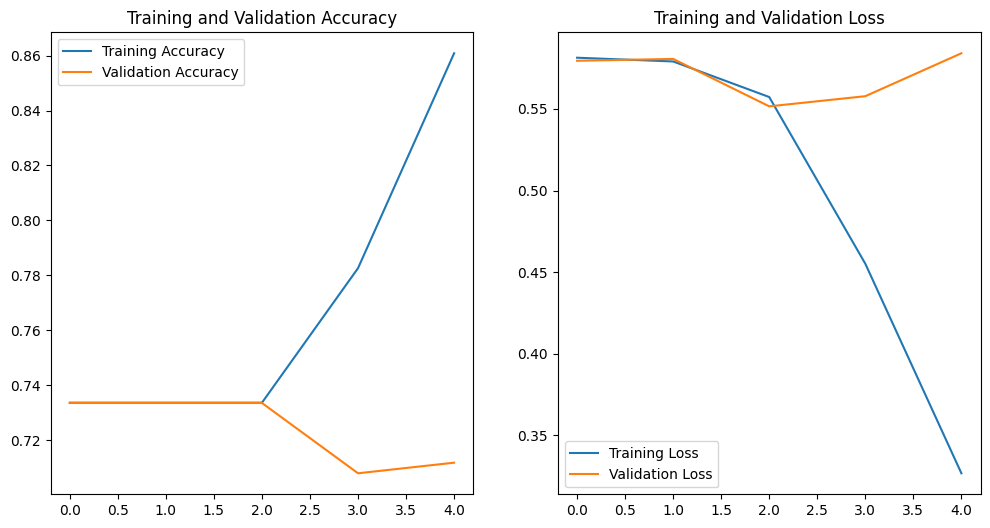
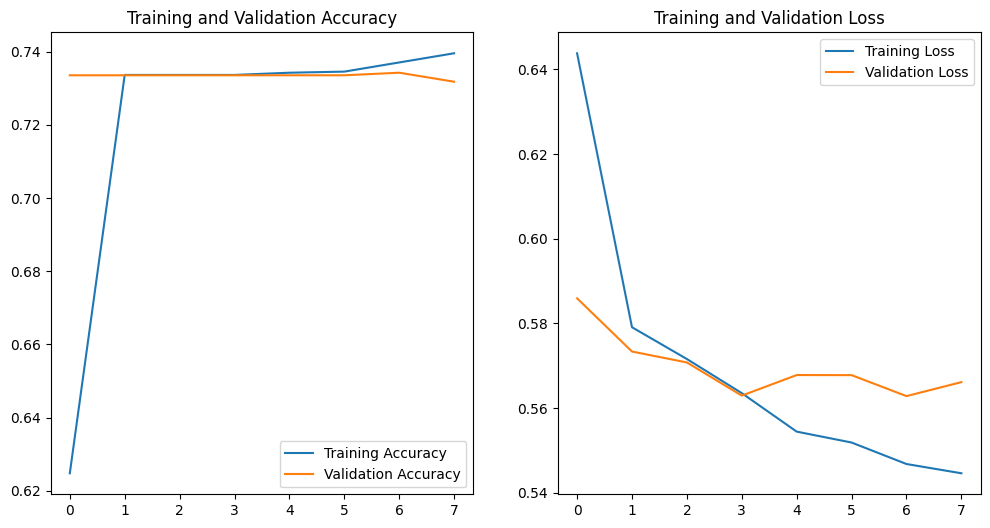
update rnn

diff --git a/README.md b/README.md
@@ -6,7 +6,8 @@ Abstract: This section provides a brief summary of the project, highlighting the
 
 The field of fashion trend forecasting has existed for decades, but recent strides in natural language processing and AI have opened countless doors for opportunities to fortify the primarily qualitative work done by forecasting agencies and consumers alike. Through a thorough analysis of Vogue Runway's archive of Ready-to-Wear collections from the past 34 years, this project aims to investigate one primary question: 
 
-**How successful are natural language processing efforts at recognizing the trend cycle in action, identifying the characteristics of fashion designers who achieve long-term success, and using the two to predict trends and deisgner longevity alike?**
+**How successful are natural language processing efforts at recognizing the trend cycle in action, identifying the characteristics of fashion designers who achieve long-term success, and using the two to predict trends and designer longevity alike?**
+
 
 
 ## Introduction
@@ -140,10 +141,10 @@ We fit an RNN model to the data to predict whether the collection designer is pa
 
 ![RNN History](https://github.com/bellagracefinck/trend_cycle/blob/main/images/rnn_history.png)
 
-As shown above, the validation accuracy hangs around the 0.7335 mark before decreasing slightly, while the training accuracy increases over time. Though the model becomes more overfit with each epoch, the validation accuracy does not decrease, which is a positive. 
+As shown above, the validation accuracy hangs around the 0.7335 mark before decreasing slightly, while the training accuracy increases rapidly in the first epoch and then very gradually over time. Though the model becomes slightly overfit by the end, the validation accuracy and training accuracy are within 0.05 of each other, which is a good sign. Additionally, loss is almost entirely minimized for both training and validation sets. 
 
 #### NB
-The Naive Bayes model in this context is aimed at a slightly different goal. Rather than trying to predict designer status with the entire description of the collection, the NB model is trained exclusively on the fashion-related words extracted by the NER model to try and identify specific collection attributes that contribute to or detract from the long term success of designers. 
+The purpose of the Naive Bayes model in this context is aimed at a slightly different goal but trained on the same data. Rather than trying to predict designer status, the NB model is trained on the fashion-related words extracted by the NER model to try and identify specific collection attributes that contribute to or detract from the long term success of designers. 
 
 We reach an accuracy score of 0.72 with this model, and identify which words contributed the most to the top designers vs. the normal designers. 
 
@@ -163,7 +164,7 @@ After adding node attributes to the network based on designer name, season-year,
 For curiosity's sake, I performed TF-IDF analysis on the collection descriptions of  four sample communities identified by the greedy modularity community detection algorithm. While not entirely different, there are certain elements of each community that seem to characterize the vibe of collections included in the community itself. For example, in Sample 3, the inclusion of simple, lightweight fabrics such as gauze and linen fall in line with the general style of minimalism and sustainability. Comparatively, Sample 2's mentions of country, western, and lace seem to evoke a similar sense of cohesion. Were this a clothing classification dataset, the juxtaposition of country and punk in this output may have sparked more cause for concern, but given the extremely imaginative nature of designer fashion, it is likely that the terms are closer in nature than we would otherwise assume. 
 
 ### Designer prevalence prediction
-The Recurrent Neural Network 
+I initially trained the RNN on the full collection descriptions and attempted to predict whether or not the designer of a collection was part of the top 5% of designers by prevalence score. The model took a long time to fit and often ended up being overfit to the training data regardless of how I tuned the hyperparameters. I  eventually decided to switch the training data to the extracted fashion-specific terms from each collection and was quite pleased with the results. The model was faster, minimized both training and validation loss, and ended with a balanced accuracy score between training and validation sets. 
 
 
 ## Conclusion
